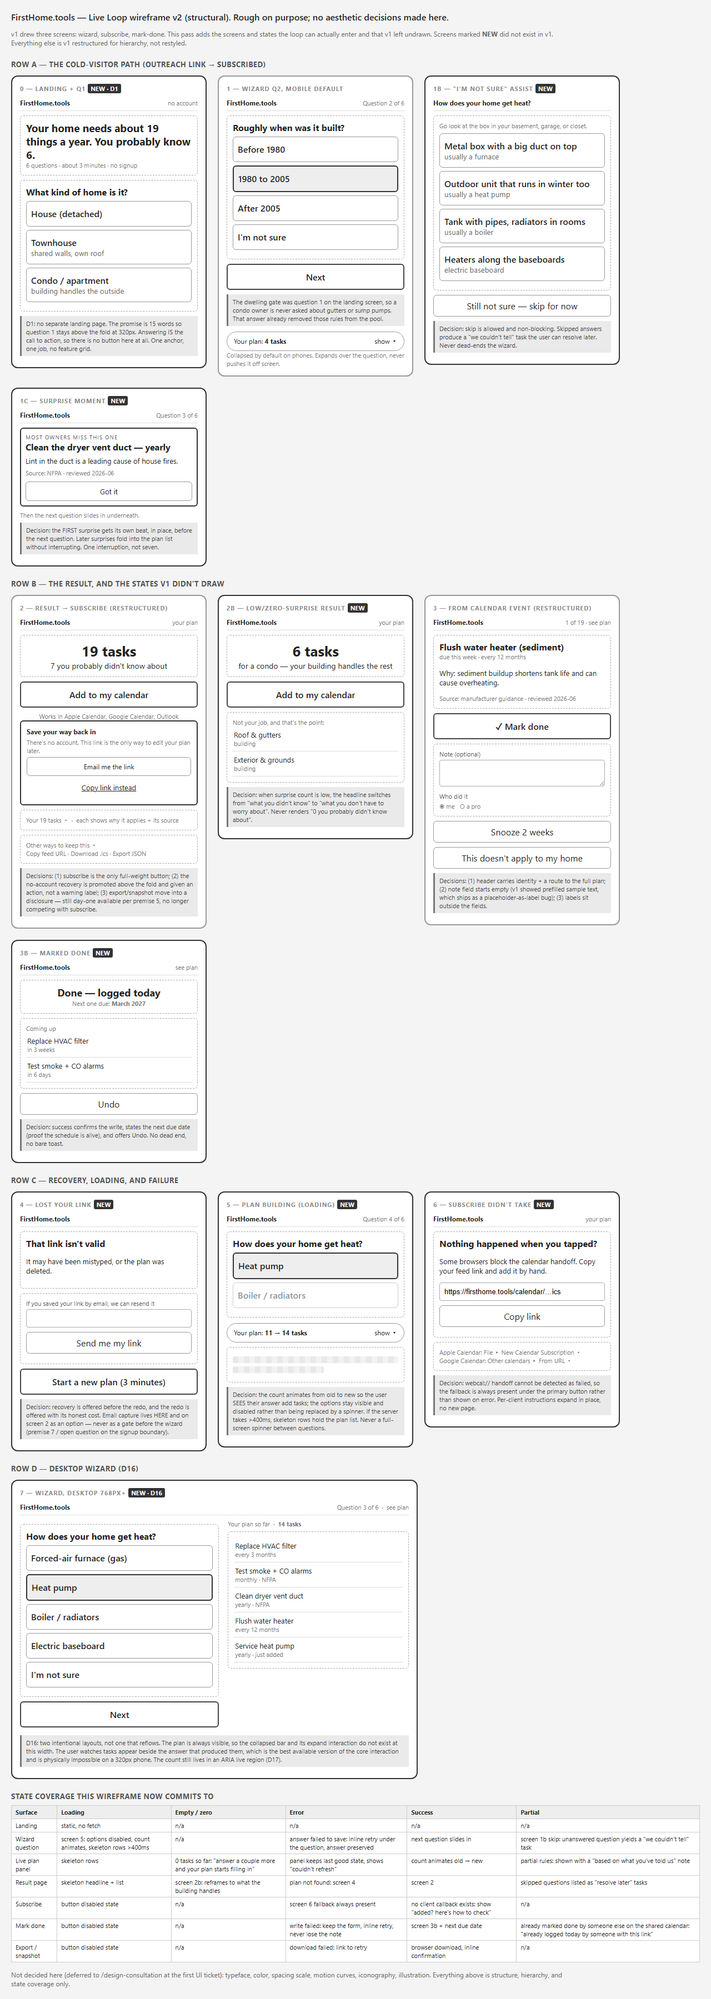
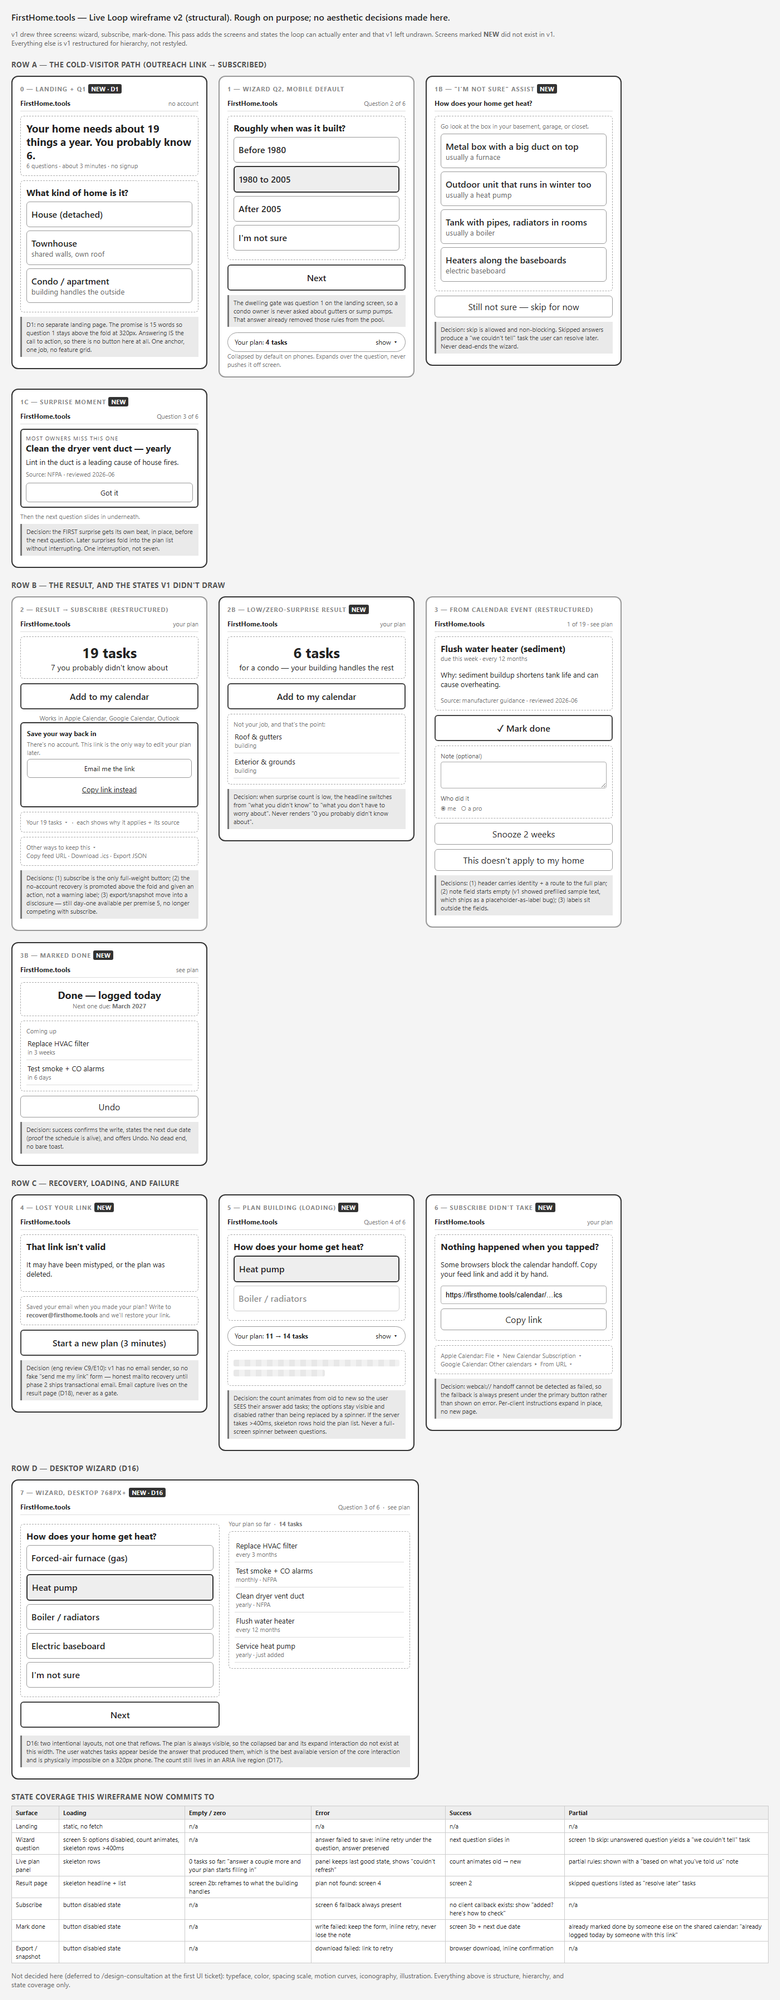
WIP: eng review — Engineering Specification (E1-E12 + Codex round C1-C9)
[gstack-context]
Decisions: services/web+rules; server-only Supabase deny-all RLS; HKDF token chain edit>feed>action, digests at rest; discrete ICS events UID=taskId-seq, 18mo horizon, ETag/304; rule-anchored due dates (monthly/seasonal/interval-half); subscribed = >=2 polls >=6h apart; already-doing checklist standard in wizard; action token = task ops + read-only plan; rules version retention + editorial review; scope kept vs Codex cut proposal; honest lost-link copy; anonymous active-home metric
Remaining: scaffold ticket T1; rules dataset sourcing is critical path
Skill: /plan-eng-review
[/gstack-context]

Changed region(s): [[0.0, 0.0, 0.8973, 1.0]]

diff --git a/docs/ai/plans/assets/wireframe-v2.html b/docs/ai/plans/assets/wireframe-v2.html
@@ -258,14 +258,13 @@ exist in v1. Everything else is v1 restructured for hierarchy, not restyled.
       <p style="font-size:13px">It may have been mistyped, or the plan was deleted.</p>
     </div>
     <div class="box">
-      <label class="fld">If you saved your link by email, we can resend it</label>
-      <input type="text" value="">
-      <div class="btn ghost">Send me my link</div>
+      <div class="meta">Saved your email when you made your plan? Write to
+      <strong>recover@firsthome.tools</strong> and we'll restore your link.</div>
     </div>
     <div class="btn">Start a new plan (3 minutes)</div>
-    <div class="ann">Decision: recovery is offered before the redo, and the redo is offered
-    with its honest cost. Email capture lives HERE and on screen 2 as an option — never
-    as a gate before the wizard (premise 7 / open question on the signup boundary).</div>
+    <div class="ann">Decision (eng review C9/E10): v1 has no email sender, so no fake
+    "send me my link" form — honest mailto recovery until phase 2 ships transactional
+    email. Email capture lives on the result page (D18), never as a gate.</div>
   </div>
 
   <!-- SCREEN 5 — PLAN BUILDING / LOADING.

diff --git a/docs/ai/plans/zacgo-main-design-20260727-085637.md b/docs/ai/plans/zacgo-main-design-20260727-085637.md
@@ -192,8 +192,8 @@ decisions): `docs/ai/plans/assets/wireframe-v2.html`
 
 ### Screen inventory
 
-Nine surfaces. v1 named three; the other six were undrawn and would have been
-improvised at build time.
+Ten surfaces (C9 count). v1 named three; the rest were undrawn and would
+have been improvised at build time.
 
 | # | Surface | Purpose |
 |---|---------|---------|
@@ -201,11 +201,12 @@ improvised at build time.
 | 2 | Wizard question | One question, live plan count, dwelling gate first |
 | 3 | "Not sure" assist | Plain-language identification, non-blocking skip |
 | 4 | Surprise moment | First surprise only, in place, before the next question |
-| 5 | Result and subscribe | One primary action, trust line, recovery block |
-| 6 | Result, low-surprise variant | Reframes to what the building handles |
-| 7 | Task page from calendar event | Why, source, mark done, snooze, not-applicable |
-| 8 | Mark-done success / already-done | Confirms write, next due date, undo/unmark |
-| 9 | Lost link recovery | Resend by email, or start over with the cost stated |
+| 5 | "Already doing?" checklist | Standard skippable wizard-end step; measures the discovery claim (C4) |
+| 6 | Result and subscribe | One primary action, trust line, recovery block |
+| 7 | Result, low-surprise variant | Reframes to what the building handles |
+| 8 | Task page from calendar event | Why, source, mark done, snooze, not-applicable (action-token scope, C5) |
+| 9 | Mark-done success / already-done | Confirms write, next due date, undo/unmark |
+| 10 | Lost link recovery | Honest mailto recovery (C9), or start over with the cost stated |
 
 The subscribe fallback (copyable feed URL plus per-client instructions) lives
 under the primary button on surface 5, always present, not shown on error. A
@@ -396,27 +397,215 @@ shorthand. Neither is a design instruction. Binding for implementation:
 | Platform "This month" (C2) | `docs/ai/plans/assets/design-system-20260731/variant-C2.png` | Hearth Almanac applied | Binder rail, month/area toggle, service log, Mail Slot (future) |
 | Task page from calendar event (T2) | `docs/ai/plans/assets/design-system-20260731/variant-T2.png` | Hearth Almanac applied | Board round 2 request: separate linkable task page — why + source, mark done, note, snooze, per-asset service log, calendar-lag line |
 
+## Engineering Specification
+
+Added by /plan-eng-review on 2026-07-31. Twelve findings (E1-E12), all
+resolved; each was individually approved. This section settles the plan's
+former eng open questions.
+
+### Service layout (E1)
+
+- `services/web` — the SvelteKit app (all routes, UI, feed endpoint).
+- `services/rules` — the versioned rules dataset: JSON data + zod contract +
+  its own gate tests. The app imports it via the typed contract only.
+- Rationale: the rules dataset is the liability surface, edits on a
+  different cadence, and phase 5 wants it beyond the app. Two concerns, two
+  directories; no third service (the feed is one route handler).
+
+### Data access (E2)
+
+- All DB access through SvelteKit server routes using the service-role key
+  (server env only). The browser never holds any Supabase key.
+- RLS enabled on every table with zero policies (deny-all): a leaked anon
+  key reads nothing. No client-direct Supabase access in v1.
+
+### Tokens (E3)
+
+- Three independent capability tokens per home (edit / feed / action),
+  each ≥128-bit crypto-random (base64url).
+- Stored as SHA-256 digests only; lookup by unique digest index; no
+  plaintext at rest. Columns support rotation later (no rotation UI in v1).
+- Token-bearing routes are rate-limited per IP.
+
+### Feed semantics (E4)
+
+- Discrete regenerated events, NOT RRULE. Horizon: next 18 months per task.
+- UID = `{taskId}-{dueDate}@firsthome.tools` — stable by construction.
+- All-day DATE values (no TZID). Completed occurrences retained with a ✓
+  title prefix (D9). `METHOD:PUBLISH`, `X-WR-CALNAME: The Almanac of
+  {home name}`.
+- Generated via an existing library (`ics` or `ts-ics`) — never hand-rolled
+  RFC 5545.
+
+### v1 result page scope (E5)
+
+- The "Keep this almanac" block renders D18 email capture only ("save my
+  email for recovery"). The "Create a free account" button is phase 2; no
+  auth code in the spike.
+
+### Data model (E6)
+
+Rules live in services/rules (versioned JSON), never in the DB.
+
+```
+homes
+  id uuid pk · dwelling_type · answers jsonb · tester_ref text null
+  edit_token_digest · feed_token_digest · action_token_digest
+    (each unique, indexed)
+  recovery_email text null (D18/E10) · created_at
+
+tasks
+  id uuid pk · home_id fk · rule_id text · rule_version text
+  status: active | not_applicable · interval_months int
+  next_due date · snoozed_until date null · custom_name text null
+  unique (home_id, rule_id)
+
+completions
+  id uuid pk · task_id fk · due_date date · done_at timestamptz
+  done_by: me | pro · note text · undone_at timestamptz null
+  unique (task_id, due_date) where undone_at is null
+    -- D6: one row per real completion; double-tap hits the constraint
+
+analytics_events
+  id bigint pk · home_id fk null · event text · ts timestamptz · meta jsonb
+  -- wizard_started, wizard_completed, first_surprise, subscribed,
+  -- task_completed; server-written only; no PII in meta
+```
+
+`due_date` on completions ties each completion to a feed occurrence (the ✓
+rendering). `rule_version` pins which dataset produced the task — the
+liability trail.
+
+### Rules contract (E7)
+
+- Zod schema: id, title, area (Safety/Systems/Exterior/Interior),
+  applicability conditions over the answer vocabulary, interval_months,
+  why, source_url, source_name, reviewed_date, commonly_missed, version.
+- Gate tests: every rule parses; source_url is https; reviewed_date ≤
+  today; every applicability condition references only fields the wizard
+  can produce; every wizard question feeds ≥1 rule (the wizard↔rules
+  cross-check — the two must never diverge).
+
+### Schedule module (E8)
+
+One pure module (`services/web/src/lib/schedule.ts`) owns all date math:
+occurrence expansion, next_due advancement, snooze, due-classification.
+Table-driven gate tests. Locked semantics:
+
+1. Month-length clamp: Jan 31 + 1 month = Feb 28.
+2. "Due" comparisons are date-only against the user's local date (sent by
+   the client), never server-UTC "today".
+3. Completing re-anchors the next occurrence from done_at's date, not the
+   original due date. (Future calendar events shift after completion —
+   intended.)
+
+### Server error semantics (E9)
+
+1. Unknown/invalid token on any capability route → lost-link screen with
+   HTTP 404; identical response shape and timing for malformed vs absent
+   tokens (no oracle).
+2. Double mark-done → constraint violation is caught and returned as 200
+   with the existing completion row; UI renders the already-done state.
+   Never a 500.
+3. Analytics inserts are fire-and-forget: a failed write logs and never
+   fails the user's request.
+
+### Email recovery (E10)
+
+Capture-only in v1: store recovery_email, copy reads "save my email for
+recovery" (no instant send). Manual founder recovery at spike scale.
+Transactional sender (Resend or similar) arrives with phase 2 accounts.
+Constraint wording amended: "no reminder push/email; transactional
+recovery email deferred to phase 2."
+
+### Test matrix (E11)
+
+- **Gate lane** (Vitest, pre-commit alongside tools/gate.mjs, <2s):
+  rules contract + cross-check, schedule table tests, plan builder
+  (answers → applicable rules), ICS golden-file.
+- **Golden-file ICS test**: fixture home, feed output byte-compared to a
+  checked-in .ics; UID/DTSTART/property churn becomes a failing diff.
+- **E2E lane** (Playwright, CI + pre-deploy, not pre-commit): full loop
+  (landing → wizard → result → feed fetch), condo ≤2-surprise reframe,
+  double-tap mark-done idempotency, invalid-token → recovery.
+- **Manual client matrix** (final build day, already planned):
+  Apple / Google / Outlook subscribe, poll, event-open, mark-done.
+- Evals: none — v1 has no latent behavior.
+- 24 test requirements enumerated in the eng-review test plan artifact
+  (`~/.gstack/projects/zacgoodwin-FirstHome.tools/`); implementation writes
+  each test alongside its feature, never as a follow-up.
+
+### Feed route caching (E12)
+
+ETag from the feed body hash; `If-None-Match` → 304 with no body;
+`Cache-Control: max-age=3600`. (Subscribed-event definition superseded by
+C3 below.)
+
+### Codex-round amendments (C1-C9)
+
+An independent Codex review of this specification found five genuine holes
+and four tightenings; all were resolved by explicit decision:
+
+- **C1 — Token derivation chain (amends E3).** Digest-only storage cannot
+  render feed URLs or embed action links. Fix: one-way derivation —
+  `feed = HKDF(editToken, "feed")`, `action = HKDF(feedToken, "action")`.
+  Digests stored for lookup only. A request carrying a token can derive
+  everything below it, nothing above it. DB leak still exposes nothing.
+- **C2 — Due-date anchoring (amends E7/E8).** Each rule declares its
+  anchor: `monthly` (setup+1mo), `seasonal:{months}`, or `interval`
+  (setup + interval/2 — the honest guess when service history is unknown).
+  No front-loading. The 30-day validation metric counts only completions
+  of tasks genuinely due in the window; monthly safety tasks make the bar
+  legitimately reachable for every home.
+- **C3 — 'Subscribed' redefined (amends E12 and Success Criteria).**
+  One GET is not a subscription. Every feed fetch is logged raw (with
+  user-agent); `subscribed` = a home whose feed was fetched ≥2 times ≥6
+  hours apart (i.e. real client polling). `homes.subscribed_at` set once —
+  that is the dedup. Browser pastes no longer count (they don't re-poll).
+- **C4 — Discovery is measured in v1 (amends D5 resolution).** The
+  "which of these were you already doing?" checklist becomes a standard,
+  skippable wizard-end step for everyone. Unchecked = genuinely unknown;
+  feeds the personalized headline and premise-1 evidence. Optional-and-
+  buried is no longer acceptable — the central claim gets measured.
+- **C5 — Action token scope broadened explicitly (amends E3 wording and
+  the Approach A description).** Action token = task operations on this
+  home (mark done, unmark, snooze, not-applicable) + read-only plan view.
+  Never answers/home edits, never email, never token display — those
+  remain edit-token only. Household members seeing the calendar can
+  operate tasks; all ops logged and reversible.
+- **C6 — Occurrence identity (amends E4/E6).** UID = `{taskId}-{seq}`
+  (deterministic occurrence index from the anchor), NOT the due date —
+  snooze/re-anchor move events in place instead of creating ghosts.
+  Completions keyed `unique (task_id, seq) where undone_at is null`.
+- **C7 — Rules governance (amends E7).** services/rules retains every
+  published dataset version importable; tasks render from their pinned
+  `rule_version` forever (liability trail); no auto-migration in v1.
+  Editorial rule: every rule addition/change requires human review that
+  the cited source supports the exact claim and interval — the gate
+  enforces form, the founder enforces truth.
+- **C8 — Scope tension resolved: keep the approved scope.** Codex
+  proposed cutting to four surfaces; rejected — the "extras" are the
+  states whose absence looks broken, and completeness at CC prices was
+  the plan's premise. Decision on record; not to be re-argued.
+- **C9 — Hygiene.** Lost-link screen drops the fake "Send me my link"
+  form: honest copy (mailto recovery + start-new-plan) until phase 2's
+  sender exists. Surface inventory normalized to ten (success and
+  already-done counted separately). HEALTH-METRICS amended: active home =
+  anonymous home with ≥1 completion or ≥1 feed poll in the window.
+
 ## Open Questions
 
 - Authoritative sources per rule (NFPA, CPSC, manufacturer guidance);
-  blocks the rules dataset; owner @Zac.
-- Token security posture for all three tokens (opaque, unguessable,
-  revocable), the completion-scoped action token especially, since it is
-  exposed to everyone the feed reaches; eng decision at build time.
-- Feed semantics: RRULE recurrence vs regenerated discrete events; how
-  stale-event risk is handled given calendar clients poll subscribed feeds
-  as rarely as every 24h+. Leaning discrete regenerated events with the
-  mark-done task list as the source of truth for "due now".
-- Dwelling-type branching: condo/townhouse owners must never see gutters
-  or sump pump questions; the wizard needs a dwelling gate up front, plus
-  the "this doesn't apply to my home" escape on every task.
-- Sign-up boundary within premise 7: v1 is anonymous, but where does
-  optional email capture (feed-URL recovery) sit without becoming an
-  account wall? Decide at build time; must not gate the loop.
+  blocks the rules dataset; owner @Zac. THE remaining critical-path item.
 - Official active-user metric: ensure the health metric counts anonymous
   homes (amend alongside the scaffold ticket if it assumes signups).
 - Climate/region interval adjustments: v1 ships national defaults with
-  per-task override; regionalization deferred.
+  per-task override; regionalization deferred (roadmap phase 5).
+- Resolved by design review: dwelling gate (D7 + landing D1), signup
+  boundary (D18). Resolved by eng review: token posture (E3), feed
+  semantics (E4), email-capture infra (E10). Market note: Oply is dead
+  (domain for sale, 2026-07-31) — the Status Quo section's incumbent list
+  overstates it.
 
 ## Success Criteria
 
@@ -487,3 +676,27 @@ critical path without violating premise 4.
   in both directions, is the trait this diagnostic is designed to find.
 - You archived and re-derived instead of patching. Three premises changed
   and four build details upgraded; the re-run paid for itself.
+
+## GSTACK REVIEW REPORT
+
+| Review | Trigger | Why | Runs | Status | Findings |
+|--------|---------|-----|------|--------|----------|
+| CEO Review | `/plan-ceo-review` | Scope & strategy | 0 | — | — |
+| Codex Review | `/codex review` | Independent 2nd opinion | 1 | ABSORBED | 11 findings → 9 C-decisions (2 were truncation artifacts) |
+| Eng Review | `/plan-eng-review` | Architecture & tests (required) | 1 | CLEAR (PLAN) | 21 issues (12 review + 9 Codex round), 0 unresolved, 0 critical gaps |
+| Design Review | `/plan-design-review` | UI/UX gaps | 1 | CLEAR (FULL) | score: 4/10 → 9/10, 18 decisions |
+| DX Review | `/plan-devex-review` | Developer experience gaps | 0 | — | — |
+
+**CODEX:** outside voice found 5 genuine holes the review missed (token-URL
+generation, due-date anchoring, subscribed definition, action-token scope,
+snooze/UID churn) — all fixed as C1-C9; its scope-cut proposal was rejected
+by explicit decision (C8).
+
+**CROSS-MODEL:** Claude review (12 findings) and Codex (11) overlapped on
+zero items — genuinely complementary passes; every accepted finding from
+both is folded into the Engineering Specification.
+
+**VERDICT:** ENG + DESIGN CLEARED — ready to implement. Scaffold ticket
+(T1) unblocked; rules dataset sourcing (owner @Zac) is the critical path.
+
+NO UNRESOLVED DECISIONS

diff --git a/docs/ai/HEALTH-METRICS.md b/docs/ai/HEALTH-METRICS.md
@@ -17,4 +17,5 @@ action. A metric without a decision attached is decoration.
 
 | Metric | Source | Threshold | Action on breach |
 |---|---|---|---|
-| Active users (signup + >=1 active maintenance schedule) | app DB query (TODO: script once schema exists) | 100 by day 90 | review acquisition; no kill criteria (personal tool) |
+| Active homes (anonymous home with >=1 completion or >=1 feed poll in window; v1 has no signups — amended per eng review C9, 2026-07-31) | app DB query (TODO: script once schema exists) | 100 by day 90 | review acquisition; no kill criteria (personal tool) |
+| Subscribed homes (feed fetched >=2 times >=6h apart; homes.subscribed_at — eng review C3) | app DB query | premise-2 bar: 10 unrelated testers | see plan Success Criteria |
